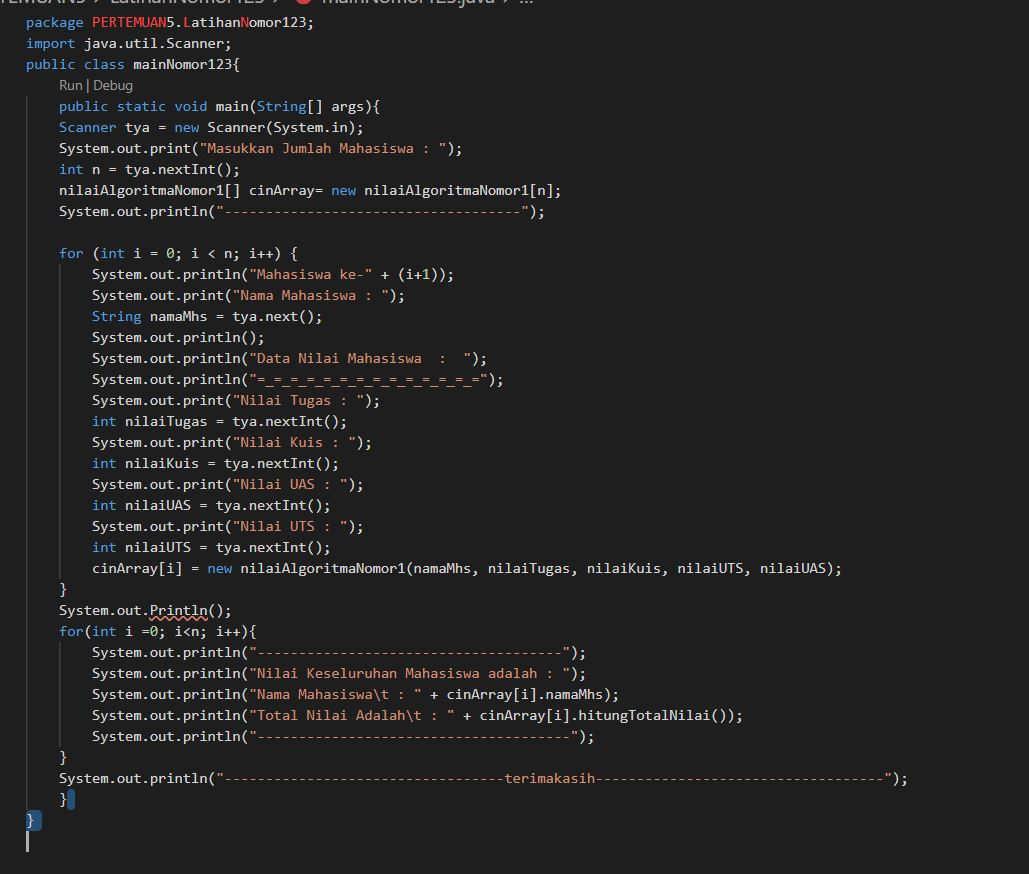
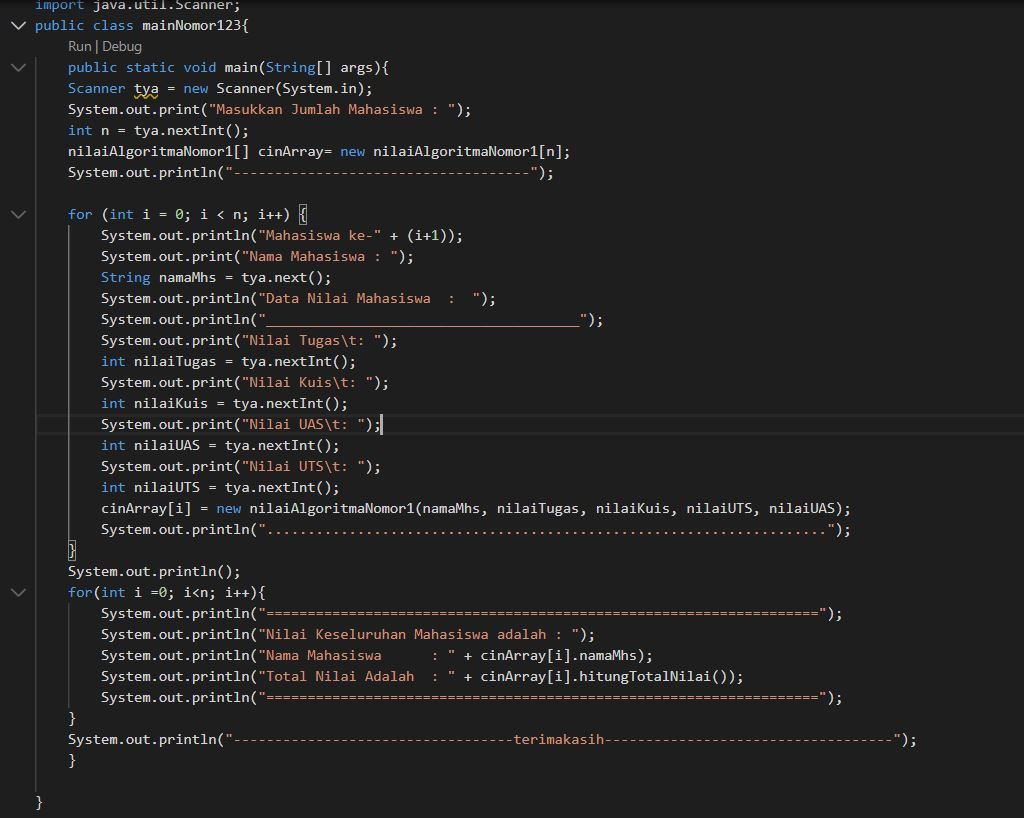
p5

diff --git a/PERTEMUAN5/LatihanNomor123/mainNomor123.java b/PERTEMUAN5/LatihanNomor123/mainNomor123.java
@@ -2,7 +2,7 @@ package PERTEMUAN5.LatihanNomor123;
 import java.util.Scanner;
 public class mainNomor123{
     public static void main(String[] args){
-    Scanner tya = new Scanner(System.in);
+ Scanner tya = new Scanner(System.in);
     System.out.print("Masukkan Jumlah Mahasiswa : ");
     int n = tya.nextInt();
     nilaiAlgoritmaNomor1[] cinArray= new nilaiAlgoritmaNomor1[n];
@@ -36,4 +36,4 @@ public class mainNomor123{
     System.out.println("----------------------------------terimakasih-----------------------------------");
     }
     
-} 
+}

diff --git a/PERTEMUAN5/LatihanNomor123/nilaiAlgoritmaNomor1.java b/PERTEMUAN5/LatihanNomor123/nilaiAlgoritmaNomor1.java
@@ -11,7 +11,7 @@ public class nilaiAlgoritmaNomor1 {
         this.nilaiKuis = nq;
         this.nilaiUTS = nut;
         this.nilaiUAS = una;
-    }
+    } 
     double hitungTotalNilai(){
         total = (nilaiTugas * 0.3) + (nilaiKuis * 0.2) + (nilaiUTS * 0.2) + (nilaiUAS * 0.3);
         return total;

diff --git a/PERTEMUAN5/LaporanPraktium.md b/PERTEMUAN5/LaporanPraktium.md
@@ -79,22 +79,38 @@ pembagian terhadap variuable n, yakni di bagi 2 kemudian dikalikan dengan method
 
 ## Latihan soal 
 1. --> kode program 
+
 <img src = "./14.JPG">
 
+
 2. --> kode program
+
 <img src = "./15.JPG">
 
     -->Hasil running 
+
 <img src = "./18.JPG">
 
-3. -->kode program 
+
+
+3. -->kode program class
+
+<img src = "./21.JPG">
+
+-->kode program main
+
 <img src = "./16.JPG">
 
+
 -->Hasil running 
+
 <img src = "./17.JPG">
 
+
 4. -->kode program 
+
 <img src = "./19.JPG">
 
 -->Hasil running 
+
 <img src = "./20.JPG">
